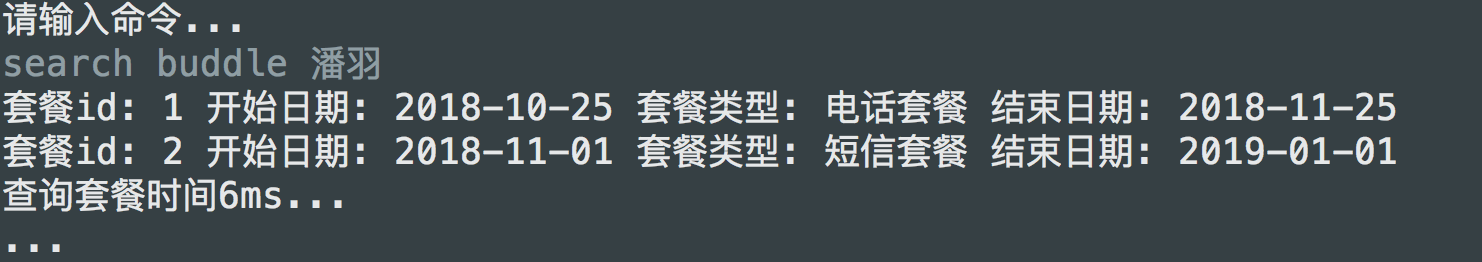
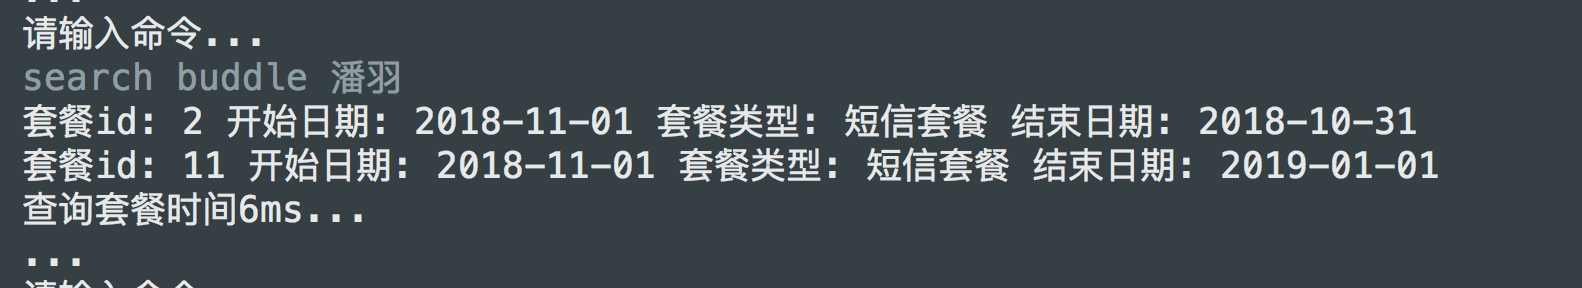
fix the bug....

Changed region(s): [[0.0, 0.0, 0.9622, 0.6412], [0.0, 0.6718, 0.2483, 0.8244], [0.0, 0.8855, 0.1242, 1.0]]

diff --git a/2/src/main/java/dao/BundleDAO.java b/2/src/main/java/dao/BundleDAO.java
@@ -61,10 +61,13 @@ public class BundleDAO {
             List<Bundle> bundleSet = user.getBundleList();
             bundleSet.add(bundle);
             user.setBundleList(bundleSet);
-            updateBalance(user, bundle);
+          //  此时只需将套餐加入用户套餐列表而不需做任何处理!
+            HQLUtil.update(user);
+
             long end = System.currentTimeMillis();
             System.out.println("您已成功订购套餐(次月生效)...");
             System.out.println("订购套餐(次月生效)花费时间" + (end - start) + "ms");
+
             return true;
         }catch (Exception ex) {
             ex.printStackTrace();
@@ -114,13 +117,15 @@ public class BundleDAO {
             List<Bundle> bundleSet = user.getBundleList();
             for (Bundle bundle: bundleSet) {
                 if(bundle.getId() == buddleId) {
-                    Bundle tmpBuddle = bundle;
-                    tmpBuddle.setEndDate(DateUtil.getLastDayOfCurrentMonth());
+                    Bundle bundle1 = bundle;
+                    bundle1.setEndDate(DateUtil.getLastDayOfCurrentMonth());
                     bundleSet.remove(bundle);
-                    bundleSet.add(tmpBuddle);
+                    bundleSet.add(bundle1);
                     break;
                 }
             }
+            user.setBundleList(bundleSet);
+            HQLUtil.update(user);
             long end = System.currentTimeMillis();
             System.out.println("取消套餐(次月生效)");
             System.out.println("取消套餐(次月生效)花费时间" + (end - start) + "ms");

diff --git a/2/src/main/java/dao/ConsumptionDAO.java b/2/src/main/java/dao/ConsumptionDAO.java
@@ -27,7 +27,7 @@ public class ConsumptionDAO {
             consumption.setCallUsage(callUsage);
 
 
-            int remain = (int) Math.ceil(callTimeRemain - callUsage);
+            int remain = (int)(callTimeRemain - callUsage);
             user.setCallRemain(remain);
             double balance = user.getBalance();
             if (remain < 0 ) {
@@ -143,8 +143,8 @@ public class ConsumptionDAO {
             User user = userDAO.findUserByUserName(username);
             Consumption consumption = new Consumption();
             consumption.setLocalDate(DateUtil.getCurrentDate());
-            consumption.setLocalDataUsage(domesticDataUsage);
             consumption.setUser(user);
+            consumption.setDomesticDataUsage(domesticDataUsage);
 
             double domesticDataRemain = user.getDomesticDataRemain();
             double balance = user.getBalance();

diff --git a/2/src/main/java/dao/BillDAO.java b/2/src/main/java/dao/BillDAO.java
@@ -18,7 +18,7 @@ public class BillDAO {
      */
     public boolean addBill(String date, String username) {
         try {
-            long start = 0;
+            long start = System.currentTimeMillis();
             List<Consumption> consumptionList = consumptionDAO.listConsumptionByMonth(date, username);
             int SMSUsage = 0;
             double callUsage =.0, localDataUsage = .0, domesticDataUsage = .0,

diff --git a/2/src/main/java/util/CommandLineTool.java b/2/src/main/java/util/CommandLineTool.java
@@ -110,6 +110,7 @@ public class CommandLineTool {
                         consumptionDAO.addDomesticDataUsage(username, usage);
                         break;
                 }
+                break;
 
                 //bill [dateToMonth] [username]
             case "bill":

diff --git a/2/src/main/java/Main.java b/2/src/main/java/Main.java
@@ -7,7 +7,5 @@ public class Main {
     public static void main(String[] args) {
         CommandLineTool commandLineTool = new CommandLineTool();
         commandLineTool.init();
-
     }
-
 }

diff --git a/2/数据库作业二说明.md b/2/数据库作业二说明.md
@@ -156,22 +156,73 @@
 	check 潘羽
 ![](img/4_3.png)
 
-余额为初始0 - 20 - 10 = -30
+余额为初始0 - 20 - 0 = -20
+
 ###  移除套餐(立即生效)
 	deorder imm 潘羽 1
-
+![](img/5_1.png)
+查看用户潘羽此时只有套餐二
+![](img/5_2.png)
 ### 移除套餐(次月生效)
-	deorder next 潘羽 2
+	deorder next 潘羽 2!
+![](img/6_1.png)
+查看用户潘羽此时订单结束日期为2018-10-31
+![](img/6_2.png)
+
+## 中间过程
+**为了便于看出用户套餐对结果结果，我们增加用户刘嘉和陈振宇😝**
+### 流程
+
+1. 增加用户刘嘉，陈振宇，并为他们各充值1000元
+2. 刘嘉订购电话套餐 * 1(1个月立即生效)，短信套餐 * 1(2个月立即生效)
+3. 陈振宇订购本地流量套餐 * 1(2个月立即生效)，国内流量套餐 * 1 (3个月次月生效)
+4. 刘嘉进行通话100分钟，一次群发了300条短信
+5. 陈振宇使用本地流量100M，国际流量1G
+
+### 命令执行段
+		 add user 刘嘉 123456
+		 add user 陈振宇 123456
+		 topup 刘嘉 1000
+		 topup 陈振宇 1000
+		 order imm call 刘嘉 1
+		 order imm sms 刘嘉 2
+		 order imm local 陈振宇 1000
+		 order next dome 陈振宇 3000
+		 fee call 刘嘉 100
+		 fee sms 刘嘉 300
+		 fee local 陈振宇 100
+		 fee dome 陈振宇 1000
+		 bill 2018-10 刘嘉
+		 bill 2018-10 陈振宇
+		 
+		 
 
 ### 实时电话费用生成
+
+	fee call 刘嘉 100
+![](img/7.png)
 	
 ### 实时短信费用生成
-
+	fee sms 刘嘉 300
+![](img/8.png)
 ### 实时本地流量费用生成
-
+	fee local 陈振宇 100
+![](img/9.png)
 ### 实时国内流量费用生成
-
+	fee dome 陈振宇 1000
+![](img/10.png)
 ### 月账单生成
+	bill 2018-10 刘嘉
+	
+1000 - 20 - 10 - (300 - 200) * 0.1 = 960
+![](img/11.png)
+
+	 bill 2018-10 陈振宇
+![](img/12.png)
+
+1000 - 20 - 0 - (1000 - 0) * 3 = -2020
+
+🙄这种欠巨多的...
 
 ## 附加说明
 
